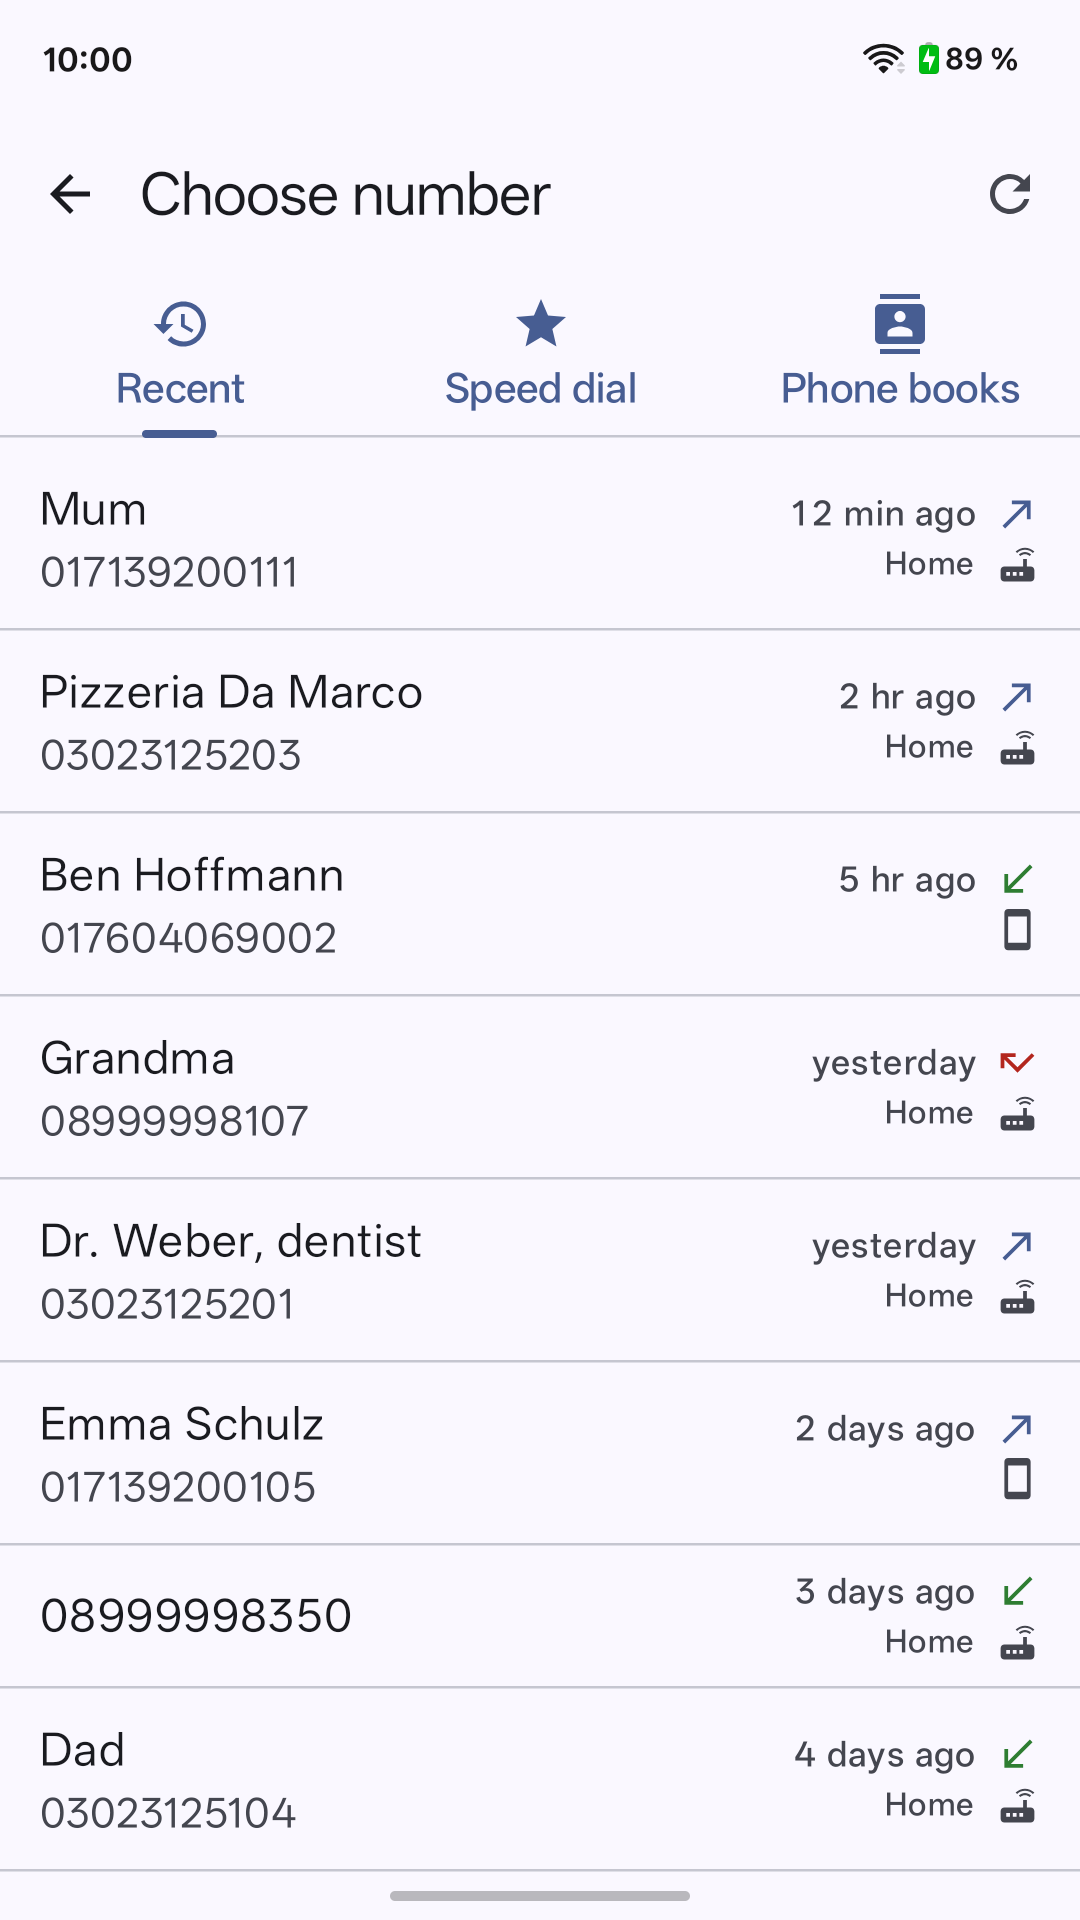
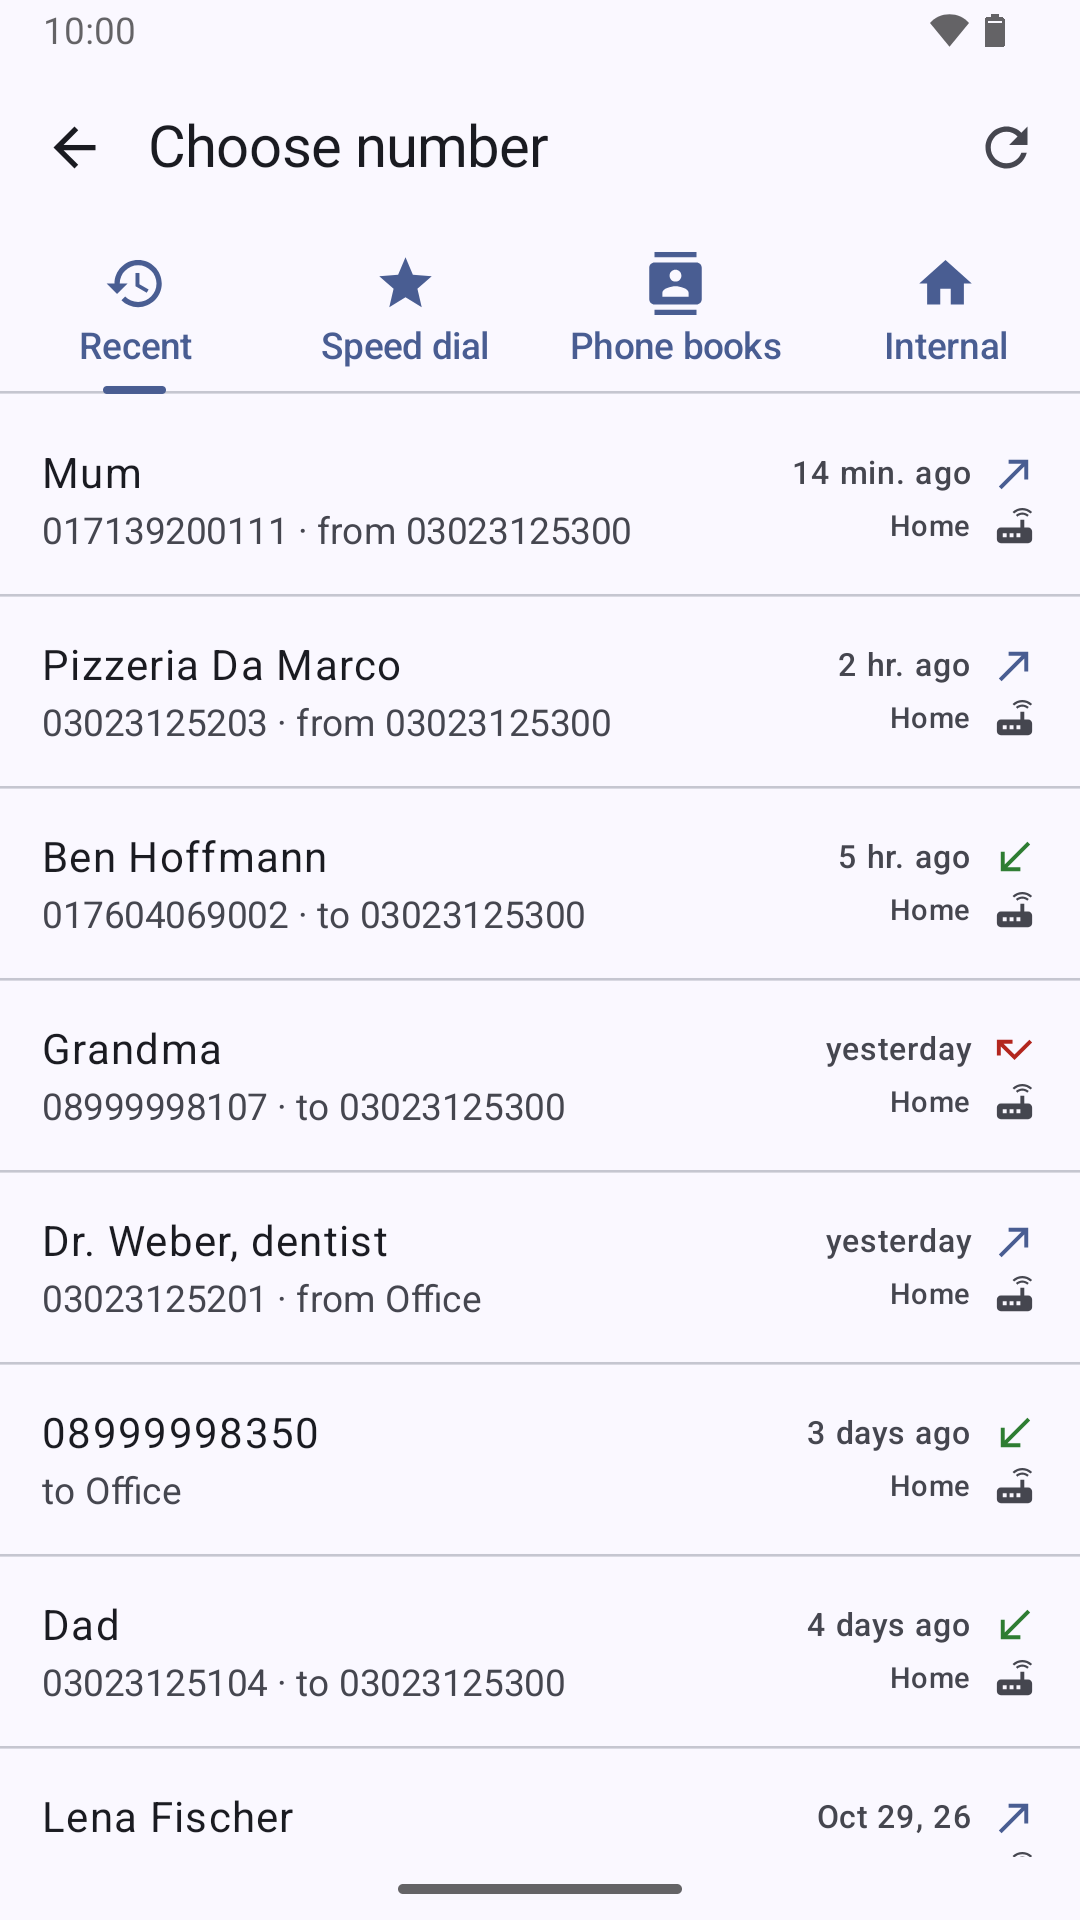
web page and store listing brought up to date with 1.4: the privacy policy names the widget lists, the time missed calls were last looked at, what is kept about each box, the box' own numbers and phones that are read, and shared or pasted text (effective date November 7, 2026); the guide describes t

diff --git a/docs/web/guide.html b/docs/web/guide.html
@@ -31,10 +31,11 @@
     <li><a href="#dialling">Dialling</a></li>
     <li><a href="#numbers">Choosing a number</a></li>
     <li><a href="#speed-dial">Speed dial</a></li>
+    <li><a href="#internal">Internal calls</a></li>
     <li><a href="#boxes">Several FRITZ!Boxes</a></li>
     <li><a href="#status">Live call status</a></li>
     <li><a href="#forwarding">Call forwarding</a></li>
-    <li><a href="#shortcuts">Tiles and shortcuts</a></li>
+    <li><a href="#shortcuts">Tiles, shortcuts and widget</a></li>
     <li><a href="#https">HTTPS and the router certificate</a></li>
     <li><a href="#confirm">Confirmation on the box</a></li>
     <li><a href="#backup">Backup and transfer</a></li>
@@ -65,7 +66,12 @@
     (see <a href="#https">HTTPS</a>). Without it, the password still never travels in clear text (digest authentication).</p>
   <p><strong>Save &amp; connect</strong> tests the settings first and only saves them once the router accepts them.
     If something is wrong – user name, password, missing permission, wrong port, router not reachable – a dialog explains it.</p>
-  <p>Moving from another phone? The first-connection page offers <strong>Restore backup…</strong> instead (see <a href="#backup">Backup</a>).</p>
+  <p>Moving from another phone? The first-connection page offers <strong>Restore backup…</strong> instead (see <a href="#backup">Backup</a>).
+    No FRITZ!Box at hand? <strong>No FRITZ!Box? Try the demo box</strong> at the top of that page fills in a box built into the
+    app – with phones, phone books, a call list and a simulated call – to look around.</p>
+  <p>Each connection has its own switches: <strong>Phone books</strong>, <strong>Call list</strong> and
+    <strong>Speed dials</strong> (on by default), and <strong>Internal calls</strong> (off by default, see
+    <a href="#internal">Internal calls</a>).</p>
 
   <h2 id="dialling">3. Dialling</h2>
   <ol class="steps">
@@ -73,8 +79,29 @@
     <li><strong>Enter a number</strong> Long-press <kbd>0</kbd> for <kbd>+</kbd>, or choose one from the phone books or recent calls.</li>
     <li><strong>Tap the green button</strong> Your handset rings. Pick it up – the box now dials the number.</li>
   </ol>
-  <p>The red button cancels a call that is still being set up. Pickelhaube also handles <code>tel:</code> links,
-    so you can choose it when tapping a number in Contacts or on a web page.</p>
+  <p>The red button cancels a call that is still being set up. Once the call is connected, end it on the handset:
+    the box cannot hang up a connected call for you.</p>
+  <p>A <strong>long press on the green button</strong> offers more:</p>
+  <ul>
+    <li><strong>Hide my number</strong> – your own number is withheld for this call (the box' code <code>*31#</code>).</li>
+    <li><strong>From …</strong> – with several internet numbers on the box, the call goes out over the one you choose
+      instead of the one set up for your handset.</li>
+  </ul>
+  <h3>Extensions, PINs and phone menus</h3>
+  <p>Digits to type once the call is connected – an extension, a conference PIN, a choice in a phone menu – follow the
+    number after a pause: <strong>long-press <kbd>*</kbd></strong> for a <kbd>,</kbd>, as in <code>0301234567,42#</code>.
+    The box' dial help cannot send such digits as tones, so Pickelhaube dials only the number and tells you what to type:
+    below the dialer before the call, and in bold once it is connected (<em>Now type 42# on the phone</em>, with the
+    live call status). Numbers from contacts or links bring their extension along (<code>x 42</code>, <code>;ext=42</code>).</p>
+  <h3>Numbers from elsewhere</h3>
+  <p>Pickelhaube handles <code>tel:</code> links, so you can choose it when tapping a number in Contacts or on a web page.
+    You can also <strong>share a text</strong> to Pickelhaube – an email signature, a message – or paste one with the paste
+    button of the empty number field: the phone number in it is picked out and cleaned for dialling
+    (<code>+49 (0)30 / 123 45-6</code> becomes <code>+4930123456</code>); with several, the app asks which one.</p>
+  <h3>Notes on the dialer</h3>
+  <p>Above the buttons, the dialer points out what needs a look: an internet number of the box that is not registered
+    with its provider (calls over it fail – a tap checks again), and <strong>new missed calls</strong> on the box since you
+    last looked at <em>Recent</em>; the address-book button shows their count as well.</p>
 
   <h2 id="numbers">4. Choosing a number</h2>
   <p>The address-book button left of the number field opens <strong>Choose number</strong>:</p>
@@ -86,6 +113,12 @@
       (off by default; the app asks once).</li>
     <li><strong>Speed dial</strong> – see below.</li>
   </ul>
+  <p>In <em>Recent</em>, new missed calls are marked, and with several own numbers on the box each call says which one it
+    was on (<em>from 030 123456</em>, <em>to Office</em>).</p>
+  <p><strong>Suggestions while typing:</strong> from the third key on, the row below the number field offers the
+    numbers from the phone books and recent calls that what you type may be heading for – numbers starting with it
+    (however they are written), and names whose letters are on the keys you typed (<kbd>2766</kbd> finds <em>Arno</em>).
+    A tap takes the best one; <em>3 more ▾</em> opens the others.</p>
   <p>Long-press a number for more: <em>Add to this phone's contacts</em>, <em>Hand over to the FRITZ!Box</em>
     (copies a phone contact into one of the box's phone books), and making it a speed dial.</p>
   <p>Numbers written differently (<code>+49 30 123456</code>, <code>030 123456</code>, <code>123456</code>) are
@@ -100,7 +133,16 @@
       you can also create, change and remove them from the app.</li>
   </ul>
 
-  <h2 id="boxes">6. Several FRITZ!Boxes</h2>
+  <h2 id="internal">6. Internal calls</h2>
+  <p>With several phones on the box, Pickelhaube can call one from another – the kitchen from the study, for free.
+    Switch on <strong>Internal calls</strong> on the box' connection page; <em>Choose number</em> then has a tab
+    <strong>Internal</strong> with the box' phones and their internal numbers: analogue phones (<code>**1</code>,
+    <code>**2</code>), DECT handsets (<code>**610</code> to <code>**615</code>), IP phones and FRITZ!App Fon
+    (<code>**620</code> …), and <em>All phones</em> (<code>**9</code>). Their names are found in the suggestions while typing too.</p>
+  <p>The phone under <em>Ring phone</em> rings first and then calls the other one, so choose a single phone there –
+    a group would ring the called phone as well. A phone cannot call itself; Pickelhaube says so instead of dialling.</p>
+
+  <h2 id="boxes">7. Several FRITZ!Boxes</h2>
   <p><em>Settings › FRITZ!Box connections</em> holds any number of boxes – home, office, parents – each with its own
     address, user, password and options. The box of the current network is chosen automatically: at start, when
     the network changes, and when the app comes back to the foreground. A box reachable only through a VPN or MyFRITZ
@@ -109,46 +151,51 @@
     box whose number differs from the stored one. Each connection page also shows the model, FRITZ!OS version and the
     permissions of the configured user.</p>
 
-  <h2 id="status">7. Live call status</h2>
+  <h2 id="status">8. Live call status</h2>
   <p>Above the buttons, the dialer shows how the call goes: <em>pick up</em>, <em>calling …</em>, <em>connected</em> with
     a timer, and finally <em>call ended</em> with its duration (or <em>not answered</em>).</p>
   <p>This uses the box's <strong>call monitor</strong>, which is off by default. Switch it on once by dialling
     <code>#96*5*</code> on a phone connected to the box (<code>#96*4*</code> switches it off).</p>
   <p class="note warn">The call monitor needs no login and is not encrypted: while it is on, any device in your home network can
     follow the box's calls, numbers included. Without it, Pickelhaube works as well – it just shows <em>pick up</em>.</p>
+  <p>Internal calls are not followed yet: it is not known whether the call monitor reports them.</p>
 
-  <h2 id="forwarding">8. Call forwarding</h2>
+  <h2 id="forwarding">9. Call forwarding</h2>
   <p>The forwarding symbol in the dialer's top bar lists the call forwardings set up on the box, each with a switch.
     The box only allows switching them on and off through the app; set them up on the box itself
     (<em>Telephony › Call Handling › Call Forwarding</em>).</p>
 
-  <h2 id="shortcuts">9. Tiles and shortcuts</h2>
+  <h2 id="shortcuts">10. Tiles, shortcuts and widget</h2>
   <p>Three quick settings tiles: <strong>Pickelhaube</strong> (opens the dialer, shows whether a box is reachable),
     <strong>Redial</strong> (opens the dialer with the last number – you still press the green button) and
     <strong>Call forwarding</strong>. From Android 13 on, <em>Settings › Quick settings tiles</em> adds them for you.</p>
   <p>A long press on the app icon offers <em>Redial</em> (dials right away), <em>Call forwarding</em>,
     <em>Dial number</em>, and which FRITZ!Box is reachable from here.</p>
+  <p>The home screen widget <strong>Numbers to dial</strong> holds numbers you choose, each widget its own list with an
+    optional title, in Pickelhaube's colours or transparent. Set it up when placing it (add numbers from the number picker,
+    reorder, remove); the Pickelhaube icon in its corner opens the setup again. A tap on an entry puts its number into
+    the dialer – it is dialled only with the green button.</p>
 
-  <h2 id="https">10. HTTPS and the router certificate</h2>
+  <h2 id="https">11. HTTPS and the router certificate</h2>
   <p>The FRITZ!Box uses a self-signed certificate. Pickelhaube uses <em>trust on first use</em>: on the first HTTPS
     connection it shows the certificate's fingerprints. Compare them with what your browser shows for
     <code>https://fritz.box</code>, then tap <strong>Trust</strong>. From then on only that certificate is accepted; if the box
     ever presents a different one, you get a <strong>Certificate has changed!</strong> warning instead of a silent connection.</p>
 
-  <h2 id="confirm">11. Confirmation on the box</h2>
+  <h2 id="confirm">12. Confirmation on the box</h2>
   <p>Newer FRITZ!OS versions ask for an additional confirmation for settings changes. Changing which phone rings for
     dial help is such a change; dialling itself is not. When needed, a dialog tells you what to do – press a button on
     the box or dial a shown code – and the app continues automatically.</p>
 
-  <h2 id="backup">12. Backup and transfer</h2>
+  <h2 id="backup">13. Backup and transfer</h2>
   <p><em>Settings › Back up and transfer</em> exports all connections and options to a JSON file and imports them again.
     Passwords are included only if you ask for it, then encrypted with a passphrase of your choice.</p>
 
-  <h2 id="language">13. Language</h2>
-  <p>English, German, Dutch, French, Italian, Spanish and Polish – automatic (system language) or chosen with the flag
-    button in the settings. The translations still need a review by native speakers; corrections are very welcome.</p>
+  <h2 id="language">14. Language</h2>
+  <p>English, German, Dutch, French, Italian, Spanish and Polish – automatic (the system language, shown as a globe 🌐)
+    or chosen with the flag button in the settings. The translations still need a review by native speakers; corrections are very welcome.</p>
 
-  <h2 id="permissions">14. Permissions</h2>
+  <h2 id="permissions">15. Permissions</h2>
   <div class="table-wrap">
     <table>
       <thead><tr><th>Permission</th><th>Why</th><th>Required?</th></tr></thead>
@@ -160,12 +207,16 @@
     </table>
   </div>
 
-  <h2 id="limits">15. Limitations</h2>
+  <h2 id="limits">16. Limitations</h2>
   <ul>
     <li>Works only while the phone is in the home network of the box, or connected to it through a VPN.</li>
     <li>Google Play allows the call log permission only for the default phone app. The option to include the phone's
       own calls under <em>Recent</em> therefore works only when Pickelhaube is installed from outside Google Play.</li>
     <li>Call forwardings can be switched on and off, not set up.</li>
+    <li>The box' dial help only dials: it sends no tones once connected (see <a href="#dialling">extensions</a>) and cannot
+      end a connected call.</li>
+    <li>The box knows only one phone for dial help, and changing it needs a confirmation on newer FRITZ!OS – so there is
+      no way to let another phone ring for a single call.</li>
   </ul>
 
   <p>Technical details and the source code: <a href="https://github.com/arkascha/pickelhaube">github.com/arkascha/pickelhaube</a>.</p>

diff --git a/docs/web/privacy-policy.html b/docs/web/privacy-policy.html
@@ -23,12 +23,12 @@
 
 <main class="wrap">
   <h1>Privacy Policy</h1>
-  <p class="lead">Pickelhaube for Android &middot; Effective date: October 31, 2026</p>
+  <p class="lead">Pickelhaube for Android &middot; Effective date: November 7, 2026</p>
 
   <div class="note warn">
     <strong>In short:</strong>
     <ul>
-      <li>Your settings, your own speed dials and the number you dialled last are stored only on your Android device.</li>
+      <li>Your settings, your own speed dials, the numbers you put on a home screen widget and the number you dialled last are stored only on your Android device.</li>
       <li>The app communicates only with FRITZ!Box routers: the ones you configured, and – to find out which of them is in the current network – the router of that network.</li>
       <li>Phone books and call lists are read only to let you choose a number; they are not saved by the app.</li>
       <li>No data is collected by, sent to, or shared with the developer or any third party. There are no analytics, advertising or tracking components.</li>
@@ -42,11 +42,13 @@
   <h2>2. Data stored on your device</h2>
   <p>The app stores the following in its private storage on your Android device:</p>
   <ul>
-    <li><strong>FRITZ!Box connections:</strong> for each configured box its name, address, port, whether HTTPS is used, user name and password, the box’s device id and serial number (to recognise it), and, if you trusted one, its HTTPS certificate. Passwords are stored encrypted with a key held in the Android Keystore.</li>
+    <li><strong>FRITZ!Box connections:</strong> for each configured box its name, address, port, whether HTTPS is used, user name and password, the box’s device id and serial number (to recognise it), what it told about itself (model, FRITZ!OS version, country and area code, the permissions of the configured user, whether its call monitor answers), the options you chose for it, and, if you trusted one, its HTTPS certificate. Passwords are stored encrypted with a key held in the Android Keystore.</li>
     <li><strong>App preferences:</strong> for example which phone the FRITZ!Box should ring, the app language, and which optional features are switched on.</li>
     <li><strong>Your own speed dials (1–9):</strong> the name and number you assigned to each, stored as a copy.</li>
     <li><strong>Last dialled number:</strong> the number dialled last and its name, used for the “Redial” tile and the app shortcuts.</li>
     <li><strong>Call forwarding state:</strong> whether a call forwarding was last seen switched on and its destination, shown in the app shortcut.</li>
+    <li><strong>Home screen widgets:</strong> for each “Numbers to dial” widget you place, its title and the names and numbers you put on it, stored as a copy and shown on your home screen.</li>
+    <li><strong>Missed calls seen:</strong> for each FRITZ!Box, the time up to which you looked at its missed calls under “Recent”, to count the new ones. No calls are stored.</li>
   </ul>
   <p>The app publishes the last dialled number and its name to the Android launcher as an app shortcut, so the launcher can show it in the menu of the app icon. This stays on your device.</p>
   <p>This data leaves your device only if you export it yourself (see section 4).</p>
@@ -58,7 +60,7 @@
       <ul>
         <li>logging in (digest authentication, so the password itself is never sent in clear text),</li>
         <li>placing and cancelling calls, and changing which phone rings for dial help,</li>
-        <li>reading phone books, the call list, speed dials, call forwardings, the box’s area and country code, its model, FRITZ!OS version, serial number, and the permissions of the configured user,</li>
+        <li>reading phone books, the call list, speed dials, call forwardings, the box’s own numbers and whether its internet numbers are registered with their provider, its phones (also DECT handsets and IP phones, for internal calls), the box’s area and country code, its model, FRITZ!OS version, serial number, and the permissions of the configured user,</li>
         <li>following the status of a call you placed,</li>
         <li>changes you trigger: switching a call forwarding on or off, adding a contact to one of the box’s phone books, creating, changing or removing a speed dial there, or deleting a copy the app made.</li>
       </ul>
@@ -82,10 +84,10 @@
     <li><strong>Call log</strong> (<code>READ_CALL_LOG</code>): to show the calls of your phone’s own telephony app under “Recent”. This option exists only in versions installed outside Google Play.</li>
   </ul>
   <p>Both are used for nothing else and can be revoked at any time in Android’s app settings. The app does not read your location, device identifiers, or other personal information unrelated to these functions.</p>
-  <p>The app can also be chosen to open <code>tel:</code> links from other apps; the number is then filled into the dialer.</p>
+  <p>The app can also be chosen to open <code>tel:</code> links from other apps; the number is then filled into the dialer. In the same way, you can share a text to the app, or paste one with the paste button of the empty number field: the app looks for a phone number in it and fills that into the dialer. The clipboard is read only when you tap that button; the text is not kept.</p>
 
   <h2>6. Use of data</h2>
-  <p>Phone books, call lists and contacts – whether obtained from your FRITZ!Box or your Android device – are read to display selectable entries, to show names for numbers, and to dial the entry you choose. They are held only while the app runs and are not saved by it, apart from the copies described in section 2 (your own speed dials and the last dialled number). All other data is used solely to connect to your FRITZ!Box and to perform the functions you trigger. Nothing is used for profiling, marketing, or any other purpose.</p>
+  <p>Phone books, call lists and contacts – whether obtained from your FRITZ!Box or your Android device – are read to display selectable entries, to show names for numbers, and to dial the entry you choose. They are held only while the app runs and are not saved by it, apart from the copies described in section 2 (your own speed dials, the numbers on your widgets and the last dialled number). Suggestions while typing a number are made from them on the device as well. All other data is used solely to connect to your FRITZ!Box and to perform the functions you trigger. Nothing is used for profiling, marketing, or any other purpose.</p>
 
   <h2>7. Data sharing</h2>
   <p>No data is shared with, sold to, or otherwise disclosed to anyone.</p>

diff --git a/docs/web/index.html b/docs/web/index.html
@@ -59,6 +59,9 @@
     <div class="card"><h3>Speed dial</h3><p>Your own speed dials 1–9, plus the FRITZ!Box speed dials 00–99 you already know from <code>**7</code>.</p></div>
     <div class="card"><h3>Several boxes</h3><p>Home and office? Pickelhaube recognises which FRITZ!Box is in the current network and uses that one.</p></div>
     <div class="card"><h3>Call forwarding</h3><p>Switch the forwardings set up on your box on and off – also from a quick settings tile.</p></div>
+    <div class="card"><h3>Suggestions while typing</h3><p>From the third digit on, matching numbers and names from your phone books and recent calls – also by the letters on the keys.</p></div>
+    <div class="card"><h3>Internal calls</h3><p>Call one of the box's phones from another – the kitchen from the study.</p></div>
+    <div class="card"><h3>Home screen widget</h3><p>The numbers you call most, one tap away – each widget with its own list.</p></div>
   </div>
   <p><a href="guide.html">Read the full guide →</a></p>
 

diff --git a/docs/README.md b/docs/README.md
@@ -2,7 +2,7 @@
 
 - `web/` – the static web page: home, guide, help testing, privacy policy. Plain HTML and CSS, no build step.
 - `store/` – the Google Play listing:
-  - `en-US/`, `de-DE/` – short and full description; `en-US/screenshots/` – the phone screenshots
+  - `en-US/`, `de-DE/` – short and full description; `en-US/screenshots/` – the phone screenshots (taken on the emulator with the demo box, 1080×1920)
   - `feature-graphic.png` – the listing's feature graphic (1024×500)
   - `app-access.txt` – what Google's review needs to get into the app (the built-in demo box)
   - `release-notes/` – "What's new" per version, in the Play Console's `<en-US>…</en-US>` format (max. 500 characters per language)
